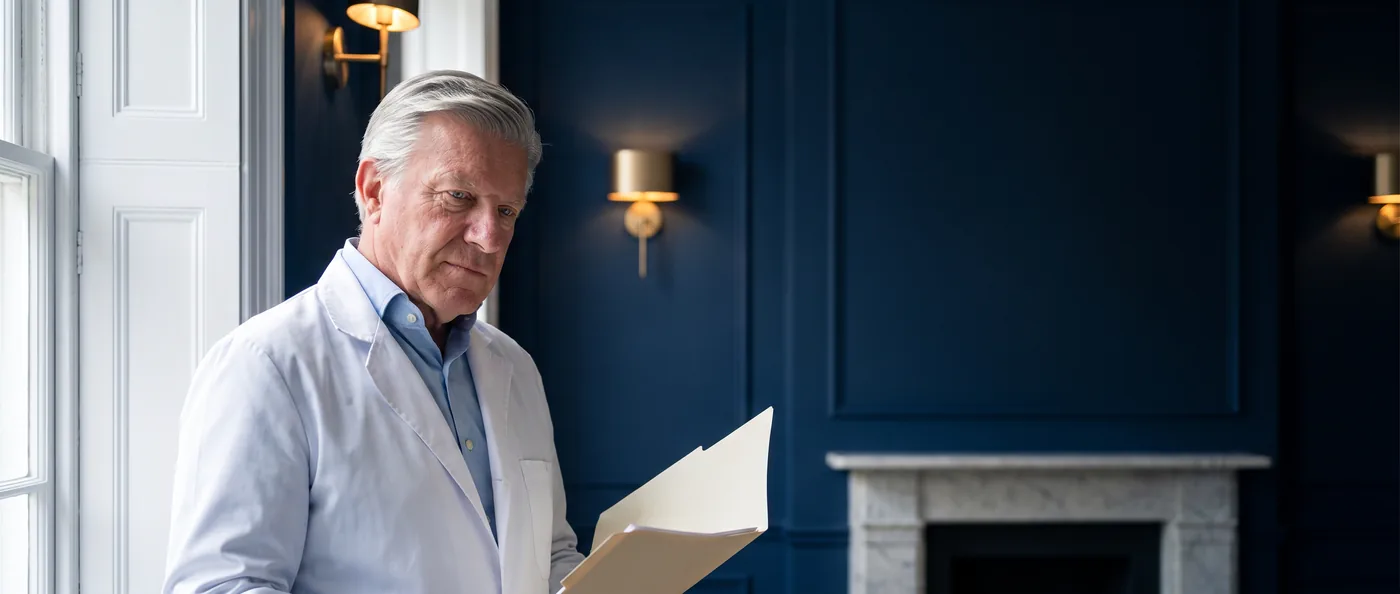
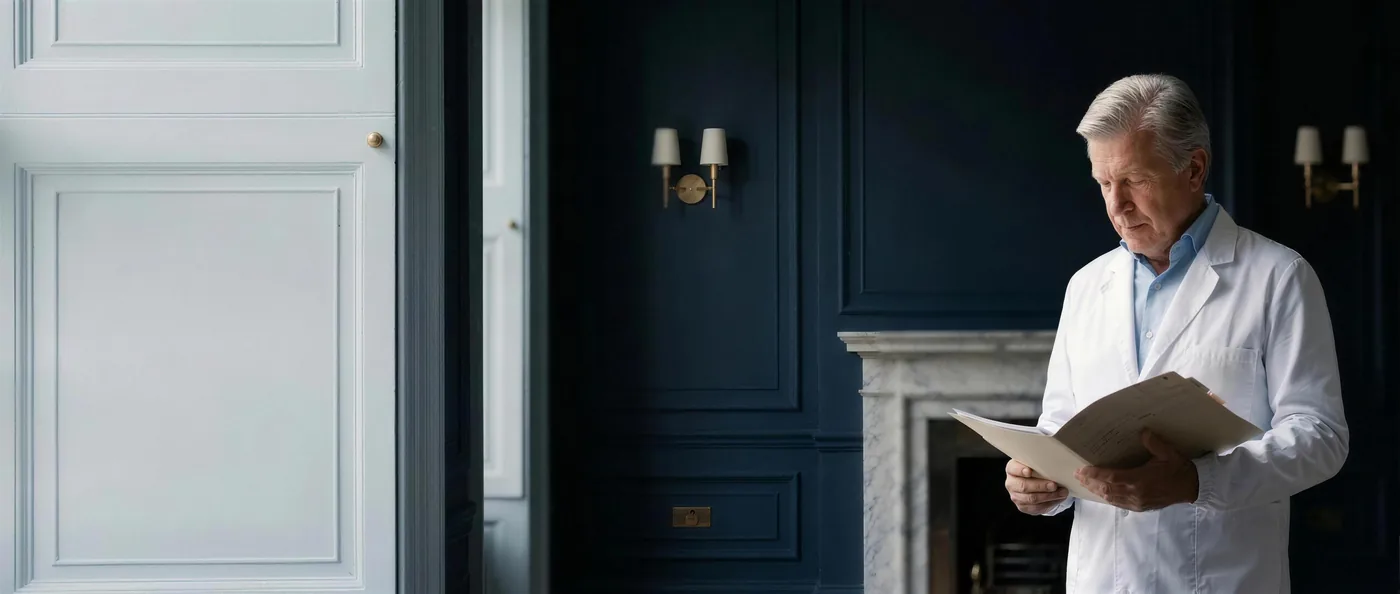
Why section: new image on the right, text and card on the left
Claude-Session: https://claude.ai/code/session_019KQCts2FkhKi3aSKtVh8HP

diff --git a/site/assets/css/styles.css b/site/assets/css/styles.css
@@ -659,18 +659,18 @@ body.menu-open .site-header .icon-btn { border-color: rgba(255, 255, 255, .4); b
 .why { position: relative; padding-block: var(--section-y); color: var(--white); overflow: hidden; isolation: isolate; background: var(--navy-ink); }
 .why {
   background:
-    radial-gradient(70% 60% at 100% 0%, rgba(198, 162, 122, .16) 0%, rgba(198, 162, 122, 0) 60%),
+    radial-gradient(70% 60% at 0% 0%, rgba(198, 162, 122, .16) 0%, rgba(198, 162, 122, 0) 60%),
     linear-gradient(180deg, var(--navy-ink), var(--navy-deep));
 }
-.why-media { position: absolute; top: -8%; bottom: -8%; left: 0; width: 58%; z-index: -2; }
-.why-media img { width: 100%; height: 100%; object-fit: cover; object-position: 31% 30%; }
+.why-media { position: absolute; top: -8%; bottom: -8%; right: 0; width: 58%; z-index: -2; }
+.why-media img { width: 100%; height: 100%; object-fit: cover; object-position: 84% 30%; }
 .why::before {
-  content: ""; position: absolute; top: 0; bottom: 0; left: 0; width: 58%; z-index: -1;
-  background: linear-gradient(90deg, rgba(14, 28, 46, 0) 0%, rgba(14, 28, 46, 0) 45%, rgba(14, 28, 46, .85) 85%, var(--navy-ink) 100%);
+  content: ""; position: absolute; top: 0; bottom: 0; right: 0; width: 58%; z-index: -1;
+  background: linear-gradient(270deg, rgba(14, 28, 46, 0) 0%, rgba(14, 28, 46, 0) 45%, rgba(14, 28, 46, .85) 85%, var(--navy-ink) 100%);
 }
-/* Text and panel sit right, leaving Dr Davide visible on the left of the photograph */
-.why-inner { display: grid; grid-template-columns: minmax(0, 4fr) minmax(0, 7fr); gap: 36px; }
-.why-intro, .why-panel { grid-column: 2; }
+/* Text and panel sit left, facing Dr Davide on the right of the photograph */
+.why-inner { display: grid; grid-template-columns: minmax(0, 7fr) minmax(0, 4fr); gap: 36px; }
+.why-intro, .why-panel { grid-column: 1; }
 .why-intro { max-width: 34em; }
 .why-intro .display-lg { color: var(--white); }
 .why-intro p { margin-top: 20px; color: rgba(255, 255, 255, .82); max-width: 26em; }
@@ -696,14 +696,14 @@ body.menu-open .site-header .icon-btn { border-color: rgba(255, 255, 255, .4); b
   .why-inner { grid-template-columns: 1fr; }
   .why-intro, .why-panel { grid-column: 1; }
   .why { padding-top: 0; background: var(--navy-ink); }
-  .why-media { position: relative; top: auto; bottom: auto; width: 100%; height: 62vw; max-height: 520px; margin-bottom: -120px; }
-  .why-media img { object-position: 22% 30%; }
+  .why-media { position: relative; top: auto; bottom: auto; right: auto; width: 100%; height: 62vw; max-height: 520px; margin-bottom: -120px; }
+  .why-media img { object-position: 82% 30%; }
   .why::before { width: 100%; height: calc(min(62vw, 520px)); background: linear-gradient(0deg, var(--navy-ink) 0%, rgba(14, 28, 46, 0) 55%); }
 }
 @media (max-width: 639px) {
   .why-grid { grid-template-columns: 1fr; gap: 26px; }
   .why-media { height: 92vw; margin-bottom: -48px; }
-  .why-media img { object-position: 20% 20%; }
+  .why-media img { object-position: 84% 20%; }
   .why::before { height: 92vw; }
 }
 
